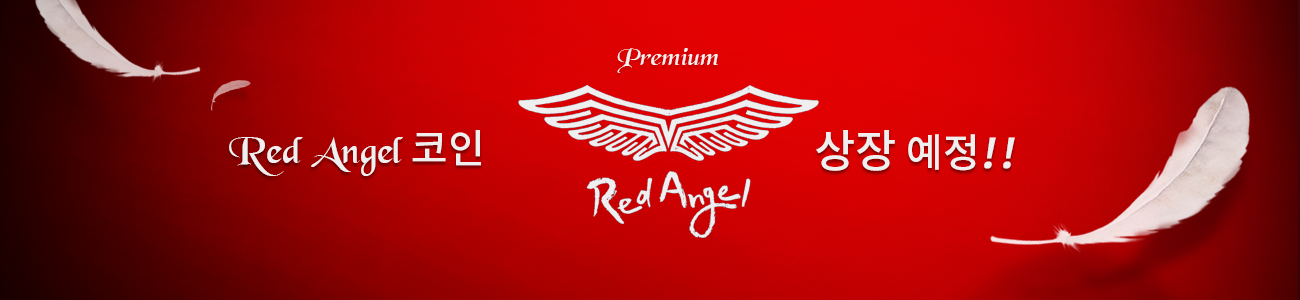
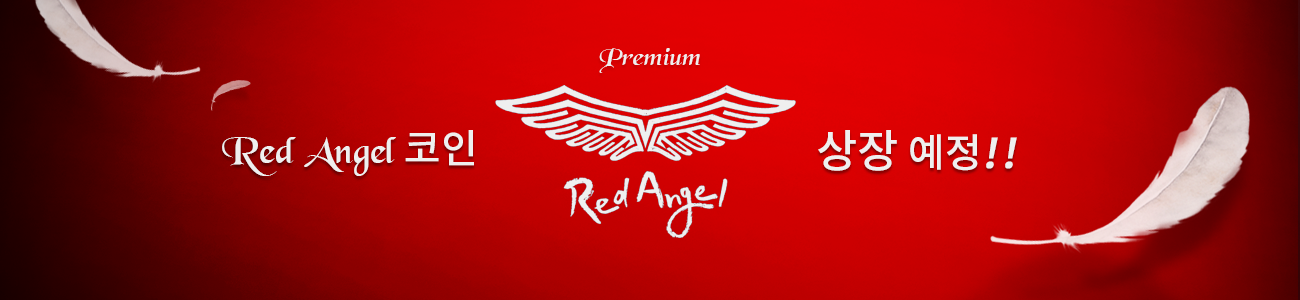
전현석 // 버튼색상, 배너 수정

diff --git a/coin4/css/mycoin_sub.css b/coin4/css/mycoin_sub.css
@@ -270,7 +270,7 @@ table .mycoin_tbody_deco>tr>td>img{
 }
 .conclu_table tbody tr td input[type="submit"]:hover {
   background-color: #7AABDF;
-  color: #fff;
+  color: #0E141C;
 }
 .user_security{
   border:none;
@@ -333,7 +333,7 @@ table .mycoin_tbody_deco>tr>td>img{
 }
 #input_KRW div.send_info_01 .temporary_name{
     border-radius: 5px;
-    background: none;
+    background: #05080B;
     color: #7AABDF;
     border: 1px solid #7AABDF;
     font-weight: 600;
@@ -967,7 +967,7 @@ table .mycoin_tbody_deco>tr>td.coin_td {
 table .mycoin_tbody_deco>tr>td .temporary_address_click {
   display: inline-block;
   background: #7AABDF;
-  color: #fff;
+  color: #0E141C;
   width:300px;
   border-radius: 5px;
   padding: 7px 10px;
@@ -1033,7 +1033,7 @@ table .mycoin_tbody_deco>tr>td .temporary_address_click:after {
   background:#7AABDF;
   border-radius:5px;
   padding: 7px 30px;
-  color: #fff;
+  color: #0E141C;
   font-weight: 600;
   font-size: 16px;
   box-sizing: border-box;

diff --git a/coin4/css/popup.css b/coin4/css/popup.css
@@ -497,7 +497,7 @@
     text-align: center;
     padding: 5px 20px;
     width: 70px;
-    color: #fff;
+    color: #0E141C;
     border-radius: 5px;
     display: block;
     margin: 0 auto;

diff --git a/coin4/css/question.css b/coin4/css/question.css
@@ -243,7 +243,7 @@
 #full2 .question_ok2{
   border-radius: 5px;
   padding: 7px 30px;
-  color: #fff;
+  color: #0E141C;
   font-weight: 600;
   font-size: 16px;
   box-sizing: border-box;

diff --git a/coin4/css/use_map.css b/coin4/css/use_map.css
@@ -15,7 +15,7 @@
 }
 .use_content #use_tab_menu ul li{
     float: left;
-    width: 49.9%;
+    width: 49.65%;
     padding: 20px 0;
     text-align: center;
     font-size: 20px;

diff --git a/coin4/css/customer_faq.css b/coin4/css/customer_faq.css
@@ -5,6 +5,7 @@
 .faq_area .faq_list .no_search{
   text-align:center;
   padding: 149px 0;
+  display:none;
 }
 .faq_area .faq_list .search_val {
   color: #EAAF69;
